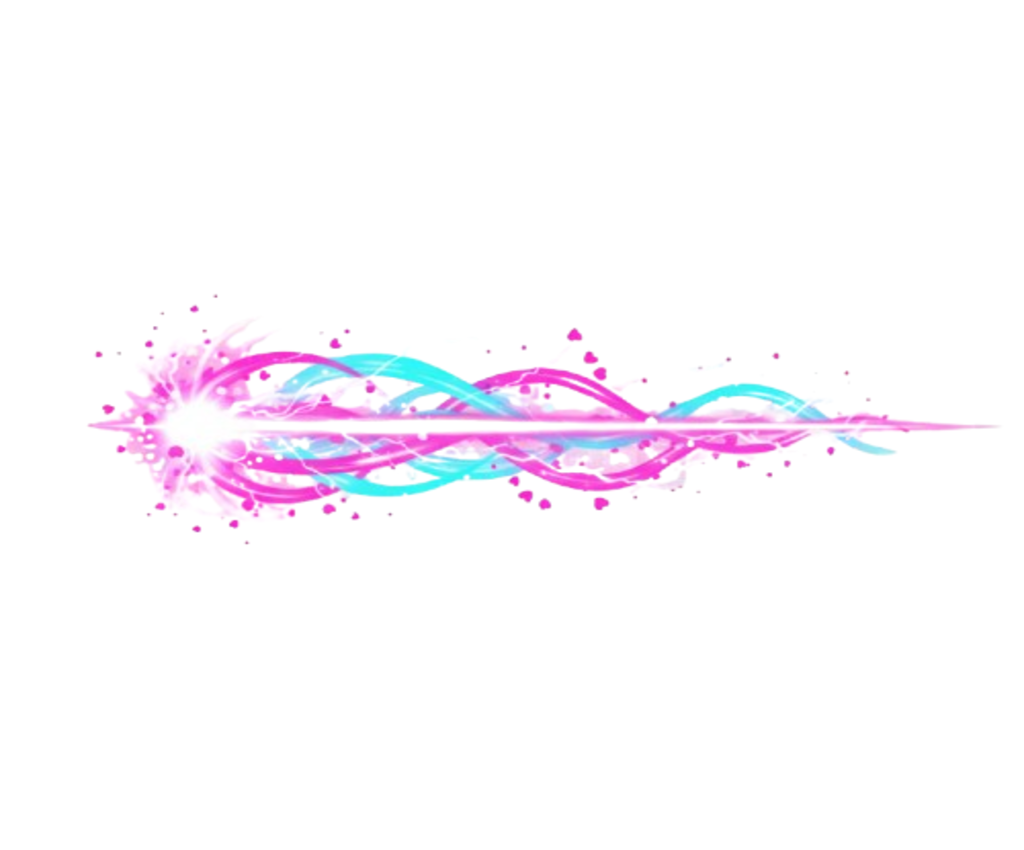
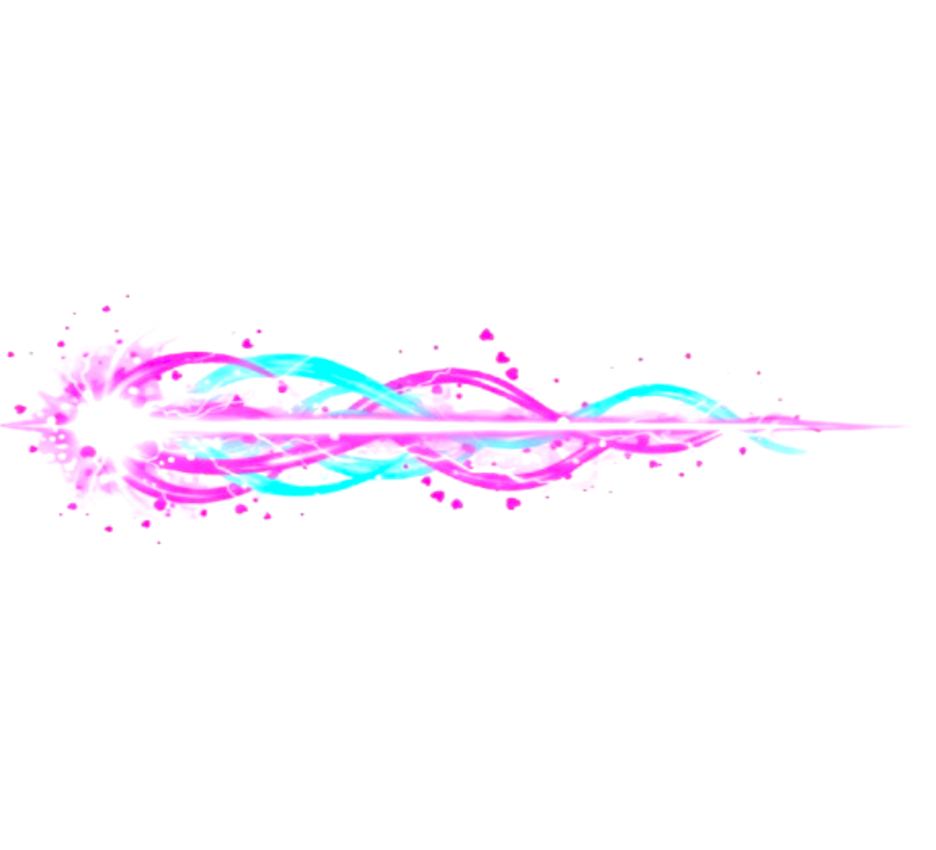
Add files via upload

Changed region(s): [[0.0, 0.3671, 0.9605, 0.6424], [0.4957, 0.3671, 0.5267, 0.3976]]

diff --git a/tpfinalparte2/Clases.js b/tpfinalparte2/Clases.js
@@ -1,15 +1,18 @@
-//Falta: vidas, agregar puerta, ganar, perder, estados, iniciar y reiniciar
+//Falta: vidas, agregar puerta, ganar, perder, estados, iniciar, reiniciar y tiempo
+//Cambiar: centro de ann por zona de ann
 
 class Juego{
   
 constructor(){
 this.Ann = new Ann();
 this.Cecy = new Cecy();
+this.Vidas= new Vidas();
 }
 
 mostrar(){
   this.Cecy.mostrar();
   this.Ann.mostrar();
+  this.Vidas.mostrar();
   this.colision();
 }
 
@@ -17,32 +20,23 @@ flechas(keyCode){
 this.Ann.flechas(keyCode);
 }
 
+
 colision(){
   
-//circulos para ver donde son los puntos desde donde se mide la distancia
+//circulos para ver donde son los puntos desde donde se mide la distancia:
 
 //ellipse(this.Ann.px + this.Ann.tam/2, this.Ann.py + this.Ann.tam/2, 10);
 //ellipse(this.Cecy.Hechizo.px + 20, this.Cecy.py + 50, 10);
 
 let Distancia = dist ( this.Ann.px + this.Ann.tam/2, this.Ann.py + this.Ann.tam/2, this.Cecy.Hechizo.px + 20, this.Cecy.py + 50);
 if (Distancia <60){
+this.Vidas.vida-=1;
   fill(255,0,0);
   textSize(100);
 text("toco", 300,200);
 }
 
-
-//dos distancias donde en la primera el punto es en "la punta del hechizo" y en la segunda, el punto es en el medio del hechizo
-//ellipse(this.Cecy.Hechizo.px + 50, this.Cecy.py + 50, 10);
-
-let Distancia2 = dist ( this.Ann.px + this.Ann.tam/2, this.Ann.py + this.Ann.tam/2, this.Cecy.Hechizo.px + 50, this.Cecy.py + 50);
-if (Distancia2 <60){
-  fill(255,0,0);
-  textSize(100);
-text("toco", 300,200);
-}
-
-}
+}// llave metodo colision
 
 
 iniciar(){
@@ -63,13 +57,12 @@ class Ann{//(Jugador)
   
 constructor(){
 this.px=0;
-this.py=31;
-this.tam = 200;
-//this.vidas=3;
+this.py=50;
+this.tam = 120;
 }
 
 mostrar(){
-image(Annimg, this.px, this.py, this.tam, this.tam);
+image(Annimg, this.px, this.py, this.tam-20, this.tam);
 }
 
 
@@ -91,7 +84,9 @@ else if (keyCode == RIGHT_ARROW){
 }
 
 moverIzq(){
+  if (this.px>0){
   this.px -=20;
+  }
 }
 
 moverDer(){
@@ -100,23 +95,16 @@ moverDer(){
   
 
 moverArriba(){
-  if (this.py>30){
+  if (this.py>50){
   this.py -=20;
   }
 }
 
 moverAbajo(){
+  if (this.py<height-this.tam){
   this.py +=20;
+  }
 }
-
-
-
-//vidas(){
-//  this.vidas=3;
-//  if (this.vidas = 0){ //no se si va asi 
-//  Juego.perder();
-//  }
-//}
 
 }//no tocar
 
@@ -127,7 +115,7 @@ class Cecy{//(Enemigo)
 constructor(){
 this.px = 520;
 this.py = 30;
-this.alto = 170;
+this.alto = 150;
 this.baja = true;
 this.Hechizo = new Hechizo();
 }
@@ -166,7 +154,7 @@ this.baja = true;
 
 mostrar(py){
 this.disparo();
-image(hechizo, this.px, py, 100, 40);
+image(hechizo, this.px, py, 80, 40);
 }
 
 disparo(){
@@ -176,5 +164,61 @@ this.px=430;
 }
 }
 
+}//no tocar
+
+class Vidas {
+  
+constructor(){
+this.vida = 5;
+
 }
 
+mostrar(){
+this.corazones();
+}
+
+corazones(){
+if (this.vida === 5){
+for (let i=10; i<=130; i+=30){
+image (vidas, i, 10, 30, 30);
+}
+}
+if (this.vida === 4){
+for (let i=10; i<=100; i+=30){
+image (vidas, i, 10, 30, 30);
+}
+image (novida, 130,10,30,30);
+}
+if (this.vida === 3){
+for (let i=10; i<=70; i+=30){
+image (vidas, i, 10, 30, 30);
+}
+image (novida, 100,10,30,30);
+image (novida, 130,10,30,30);
+}
+
+if (this.vida === 2){
+image (vidas, 10,10,30,30);  
+image (vidas, 40,10,30,30);
+for (let i=70; i<=130; i+=30){
+image (novida, i, 10, 30, 30);
+}
+}
+
+if (this.vida === 1){
+image (vidas, 10,10,30,30);  
+for (let i=40; i<=130; i+=30){
+image (novida, i, 10, 30, 30);
+}
+}
+
+if (this.vida === 0){
+for (let i=10; i<=130; i+=30){
+image (novida, i, 10, 30, 30);
+}
+}
+
+}//cierre metodo
+
+
+}// no tocar, cierre clase vidas

diff --git a/tpfinalparte2/tpfinalparte2.js b/tpfinalparte2/tpfinalparte2.js
@@ -1,7 +1,8 @@
 //Comision 1
 //Hanna Mendoza y Juan Cruz Peri
 let juego;
-let fondo, Annimg, Cecyimg, hechizo, comenzar;
+let fondo, Annimg, Cecyimg, hechizo, portal, comenzar;
+let vidas, novida;
 let cancion;
 
 function preload (){
@@ -9,7 +10,10 @@ fondo = loadImage('data/fondo.jpg');
 Annimg = loadImage('data/Annimg.png');
 Cecyimg = loadImage('data/Cecyimg.png');
 hechizo = loadImage('data/hechizo.png');
+portal = loadImage('data/portal.png');
 comenzar = loadImage('data/comenzar.png');
+vidas = loadImage('data/corazon.png');
+novida = loadImage('data/corazonvacio.png');
 cancion = loadSound('data/cancion.mp3');
 }
 
